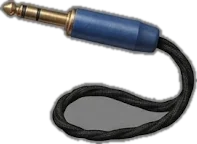
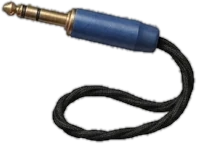
Trésor : prises plus propres (fiche branchée en capuchon coloré, boucles de câble transparentes)
Claude-Session: https://claude.ai/code/session_01UTaypXBnC3UMfvWUL5q9hs

Changed region(s): [[0.0, 0.0, 1.0, 1.0], [0.3046, 0.6667, 0.8528, 0.9167]]

diff --git a/tresor/openbox.js b/tresor/openbox.js
@@ -110,6 +110,7 @@ const css=`
 .hk .in{position:absolute;display:flex;flex-wrap:wrap;justify-content:center;align-content:center;gap:3%;animation:hkin .3s .4s both}.hk .in .hs2{height:48%;flex:0 0 30%;min-width:0}.hk .in .hs2 img{max-height:100%;animation:pu 1.6s infinite}@keyframes hkin{from{opacity:0;transform:translateY(8px) scale(.8)}to{opacity:1;transform:none}}
 .chw{position:relative;width:70%;max-width:260px;aspect-ratio:190/170;margin:0 auto 6px}.chw img{position:absolute;bottom:0;left:50%;transform:translateX(-50%);height:auto;opacity:0;transition:opacity .3s}.chw img.on{opacity:1}
 .hub{position:relative;overflow:visible}.hub .pr{position:absolute;inset:0;width:100%;height:100%;transform:rotate(-90deg)}.hub .pr circle{fill:none;stroke-width:5}.hub .pr .bg{stroke:#0009}.hub .pr .fg{stroke:#ffd24a;stroke-linecap:round;filter:drop-shadow(0 0 3px #ffd24a);transition:stroke-dashoffset .35s}.hub .pl{position:absolute;inset:15%;border-radius:50%;background:radial-gradient(circle at 35% 30%,#f0cf7c,#9a7428 55%,#4a3410);box-shadow:inset 0 2px 4px #fff7,0 3px 7px #000d;border:2px solid #3a2808}.hub .pl::after{content:"";position:absolute;inset:40%;border-radius:50%;background:radial-gradient(circle,#2a2218,#000)}.hub img.hc{position:absolute;width:64%;height:auto;left:-2.5%;top:38.5%;transform-origin:82% 18%;filter:drop-shadow(0 4px 4px #000c)}.hub img.hc.sp3{animation:hspin .5s ease-in-out}@keyframes hspin{to{transform:rotate(360deg)}}
+.pt .ps button .ph{position:absolute;left:50%;top:50%;width:64%;aspect-ratio:1;transform:translate(-50%,-50%);border-radius:50%;background:radial-gradient(circle at 35% 30%,color-mix(in srgb,var(--c) 60%,#fff),var(--c) 55%,color-mix(in srgb,var(--c) 40%,#000));border:3px solid #c9a24a;box-shadow:0 3px 7px #000c,inset 0 2px 3px #fff6;pointer-events:none}.pt .ps button .ph::after{content:'';position:absolute;inset:34%;border-radius:50%;background:radial-gradient(circle at 35% 30%,#fff3b0,#b8892a 60%,#5a3f10)}
 .cav{display:flex;justify-content:center;align-items:center;gap:4%;padding:2%}.cav>.hs2{height:100%!important;flex:0 1 38%!important;transform:scale(1.35);z-index:2}.cav>.hs2 img{max-height:100%}
 .stage{overflow:visible!important;box-shadow:none!important}
 .scene{position:absolute;inset:0;perspective:1300px;perspective-origin:50% 42%}
@@ -444,7 +445,7 @@ T.vials=p=>{const st=OB.st[p.id]||(OB.st[p.id]={seq:[]});const w=el('div','vl');
 const PLC=['#d4342c','#2f55d4','#2fa84f','#e0b030','#222'],PLS=['jk_r','jk_b','jk_g','jk_y','jk_k'];
 T.patch=p=>{const st=OB.st[p.id]||(OB.st[p.id]={slots:Array(p.n).fill(-1),sel:-1});const done=D(p.id);const w=el('div','pt');
   const ps=el('div','ps'),pl=el('div','pl');
-  for(let i=0;i<p.n;i++){const b=el('button','','<img class="sk" src="img/ob/'+(done?'jk_s2':'jk_s0')+'.webp" alt="">'+(st.slots[i]>=0?'<div class="pu">'+im(PLS[st.slots[i]])+'</div>':''));
+  for(let i=0;i<p.n;i++){const b=el('button','','<img class="sk" src="img/ob/'+(done?'jk_s2':'jk_s0')+'.webp" alt="">'+(st.slots[i]>=0?'<div class="ph" style="--c:'+PLC[st.slots[i]]+'"></div>':''));
     b.onclick=()=>{if(D(p.id))return;if(st.sel>=0){st.slots[i]=st.sel;st.sel=-1;if(st.slots.every((v,j)=>v===p.target[j])){solve(p);return;}draw();}
       else if(st.slots[i]>=0){st.slots[i]=-1;draw();}else{toast('Choisis d’abord une fiche en bas.');shake(b);}};ps.append(b);}
   PLS.forEach((sp,k)=>{if(st.slots.includes(k))return;const b=el('button',st.sel===k?'sel':'',im(sp));b.onclick=()=>{if(D(p.id))return;st.sel=st.sel===k?-1:k;draw();};pl.append(b);});

diff --git a/index.html b/index.html
@@ -97,7 +97,7 @@ a.g .tag{position:absolute;right:5px;top:5px;font-size:11px;font-weight:800;back
 </script>
 <script>
 (function(){
-  const VERSION='n°133 · 28/10 12:31';
+  const VERSION='n°134 · 28/10 12:45';
   const ver=document.getElementById('ver'),upd=document.getElementById('upd');
   ver.textContent='Version '+VERSION;
   document.querySelectorAll('a.g').forEach(x=>{const h=x.getAttribute('href');if(h&&!h.includes('?'))x.setAttribute('href',h+'?v='+encodeURIComponent(VERSION));const im=x.querySelector('img');if(im)im.src=im.getAttribute('src')+'?v='+encodeURIComponent(VERSION);x.addEventListener('click',()=>{try{localStorage.setItem('hub-last',x.dataset.n+'|'+x.getAttribute('href')+'|'+im.getAttribute('src'));}catch(e){}});});
